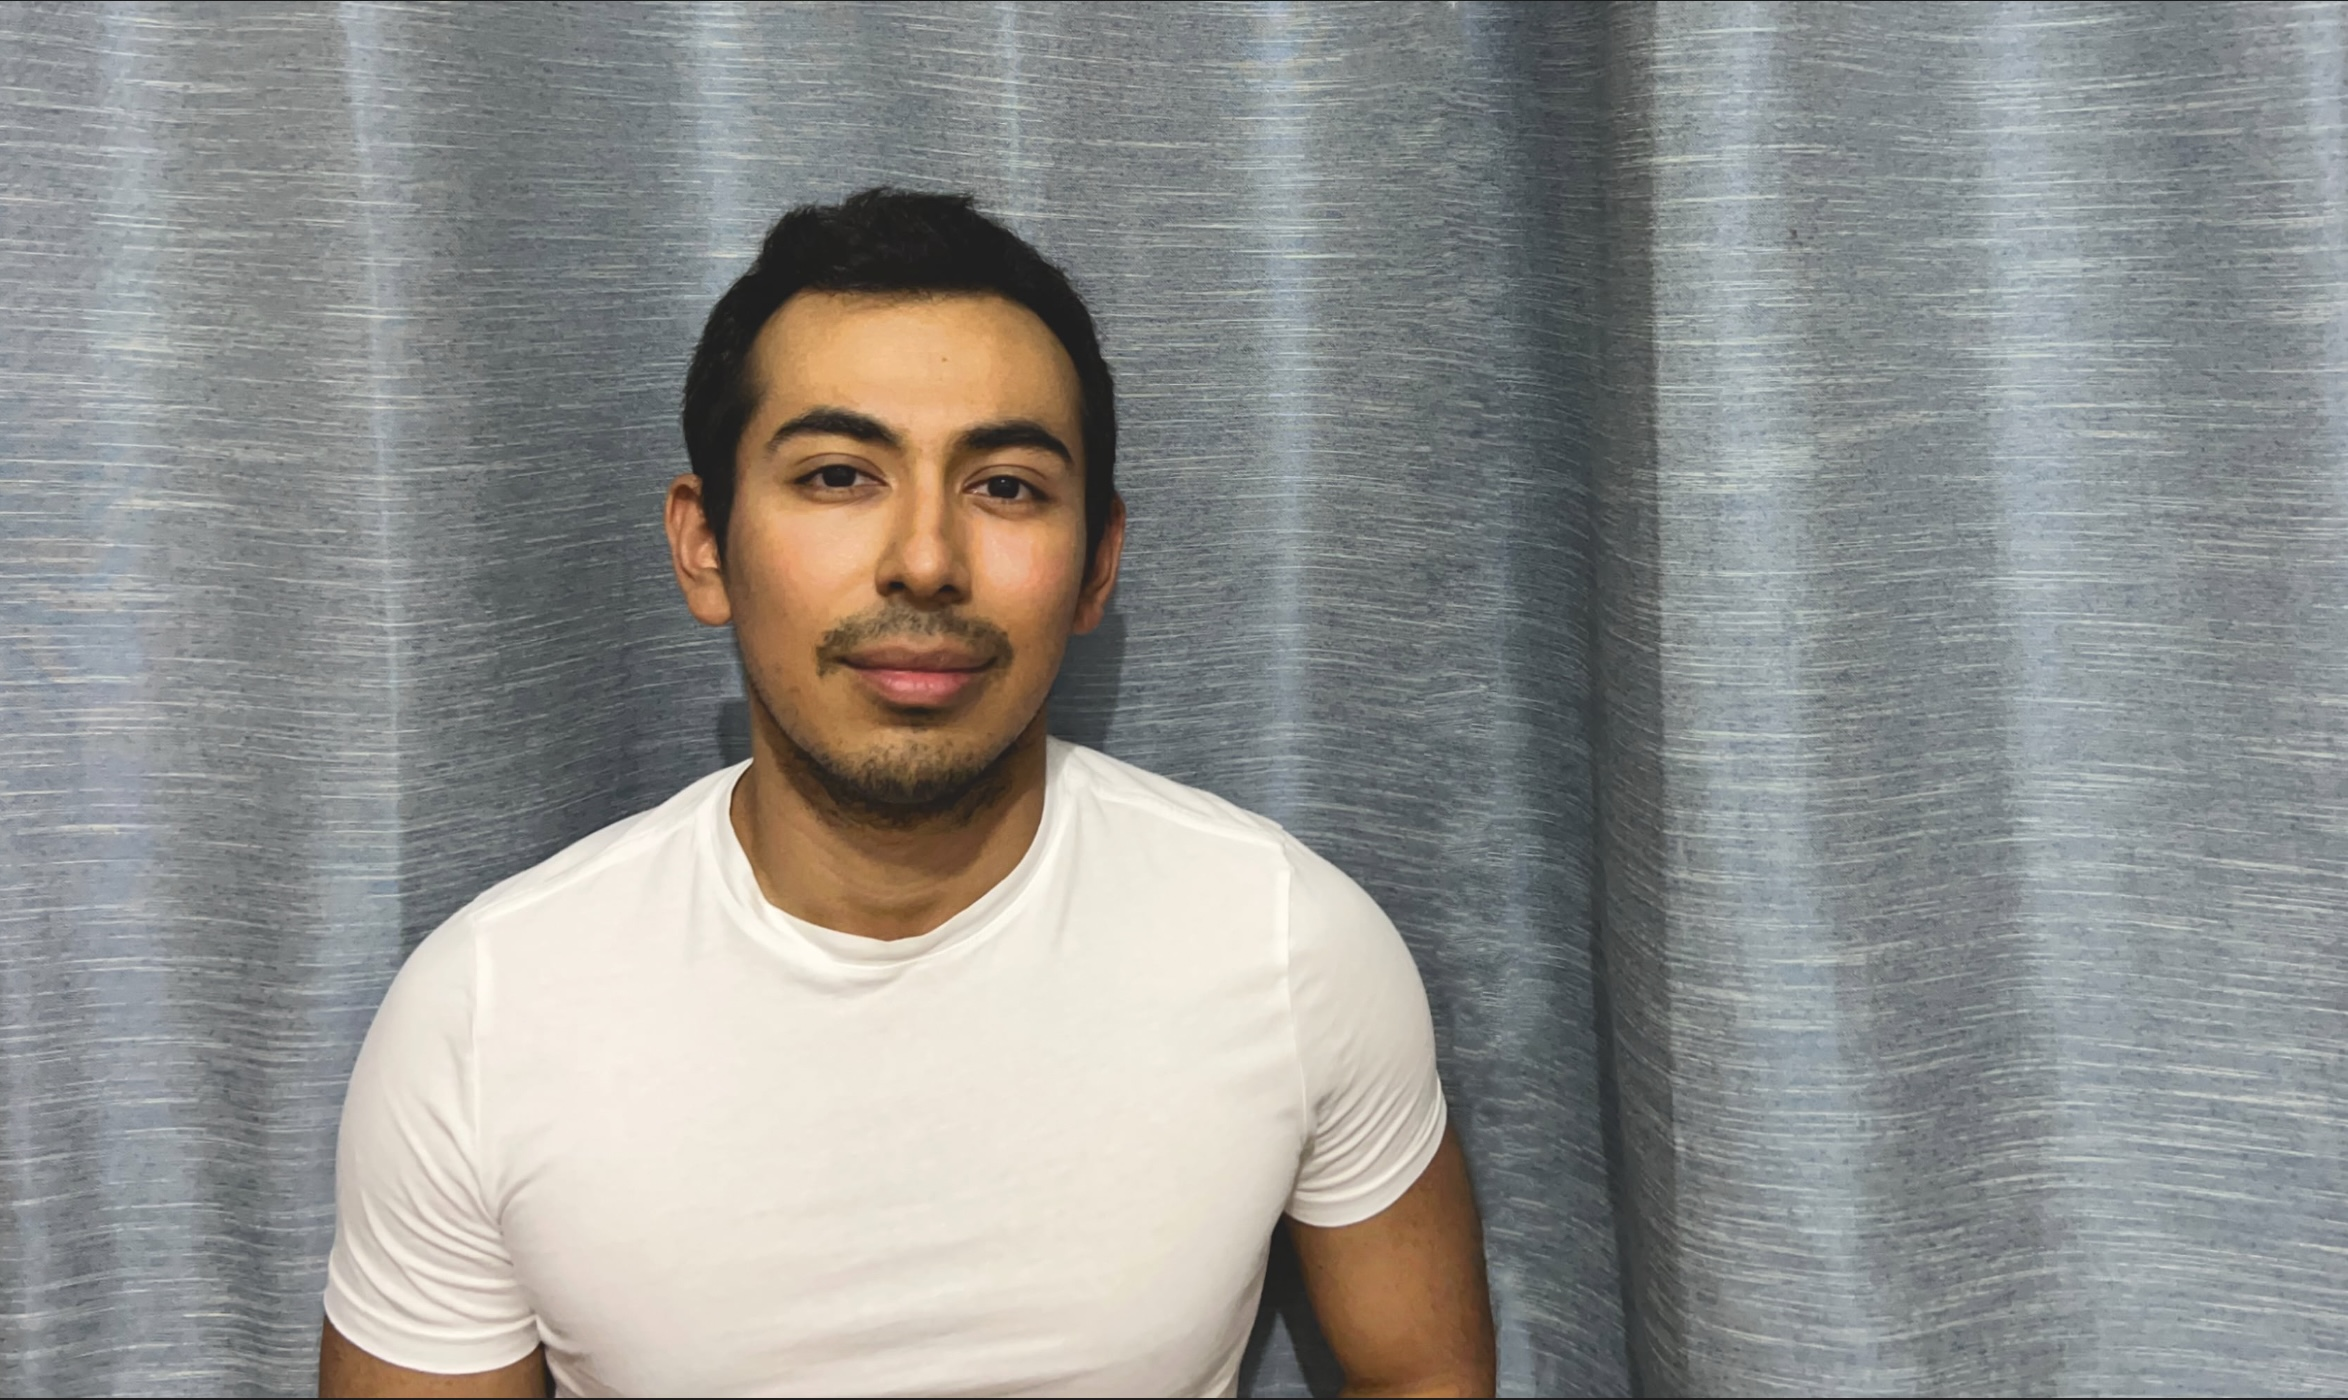
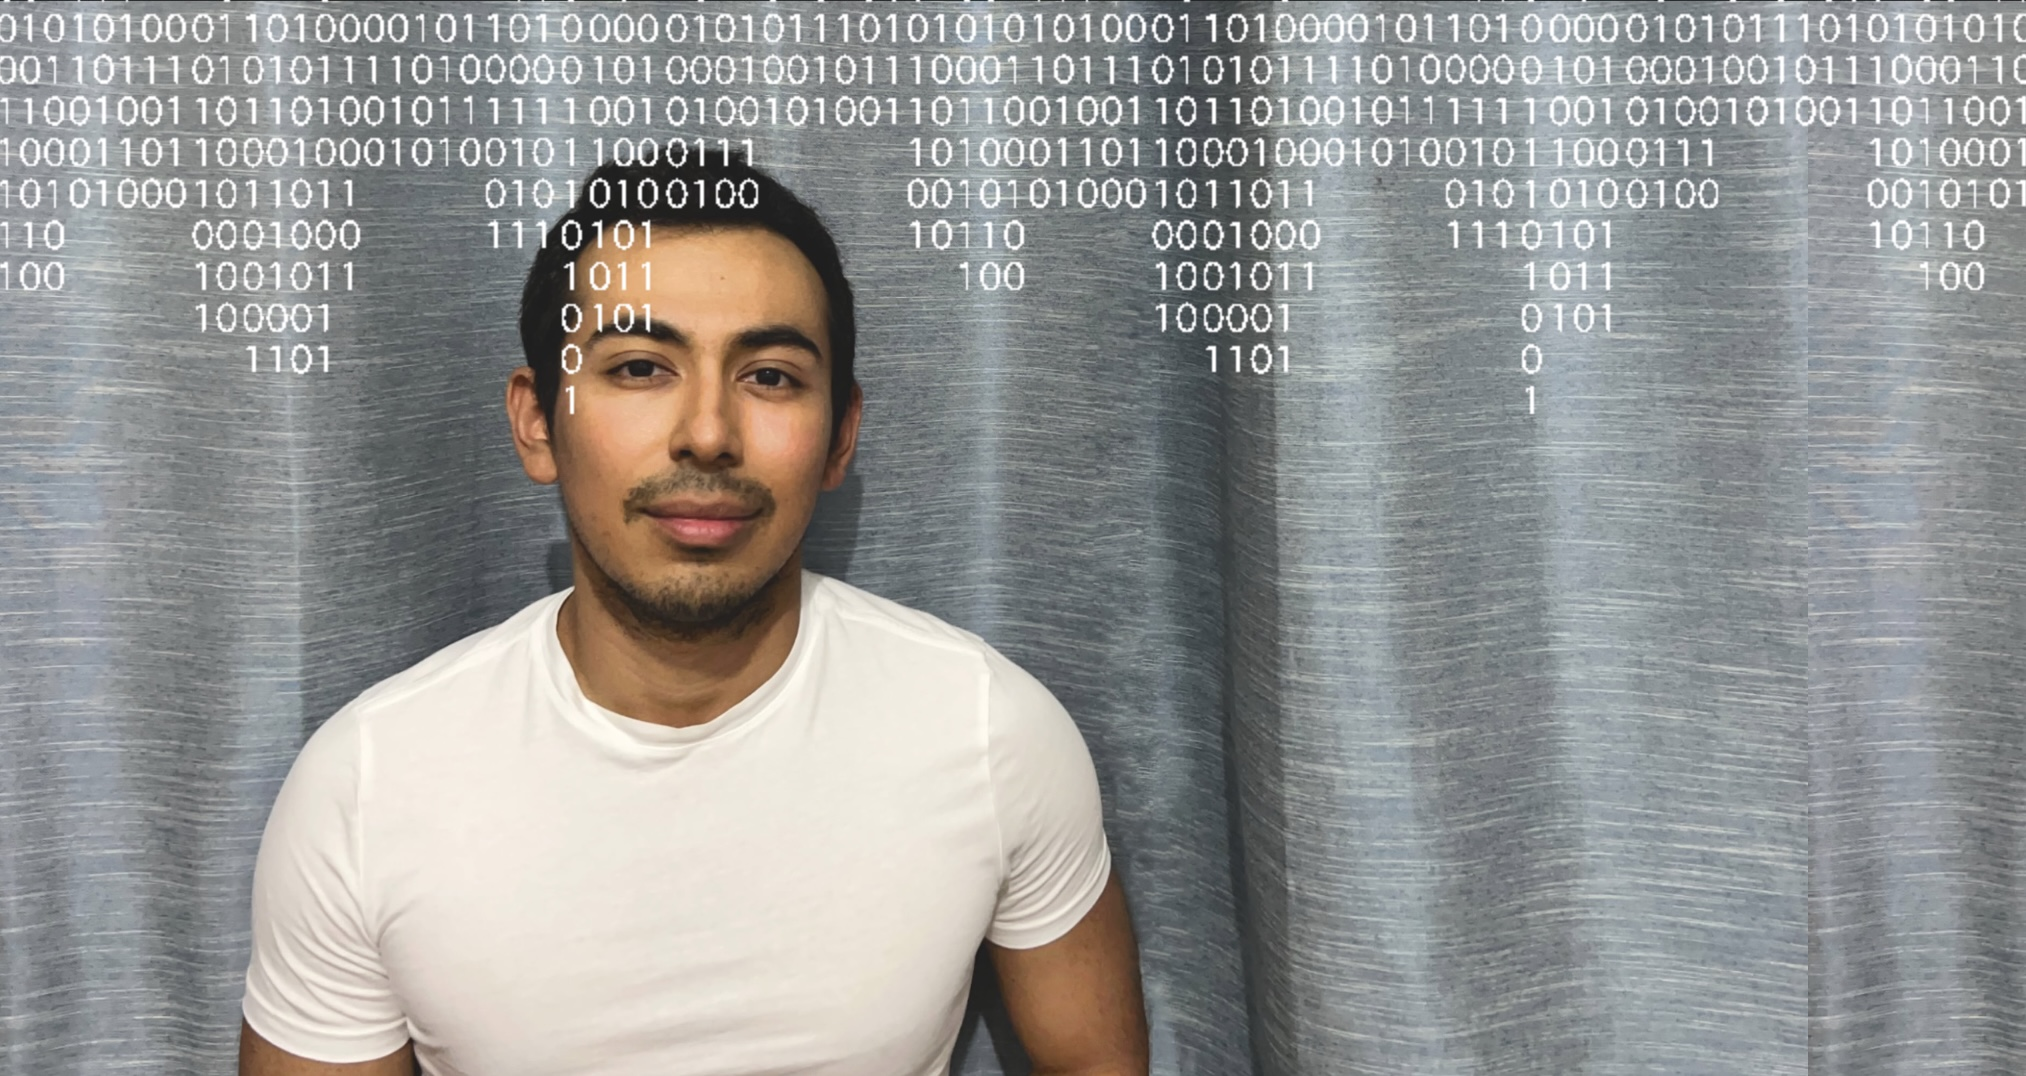
new og pic

diff --git a/src/App.css b/src/App.css
@@ -88,6 +88,12 @@ body::before {
   background-repeat: repeat-x;
 }
 
+/* .header-hero{
+  height: 800px;
+  background-image: url('./media/icons/gifs/matrix.gif');
+  background-repeat: repeat-x;
+} */
+
 .header-text{
   padding: 10% 15%;
   font-size: 30px;
